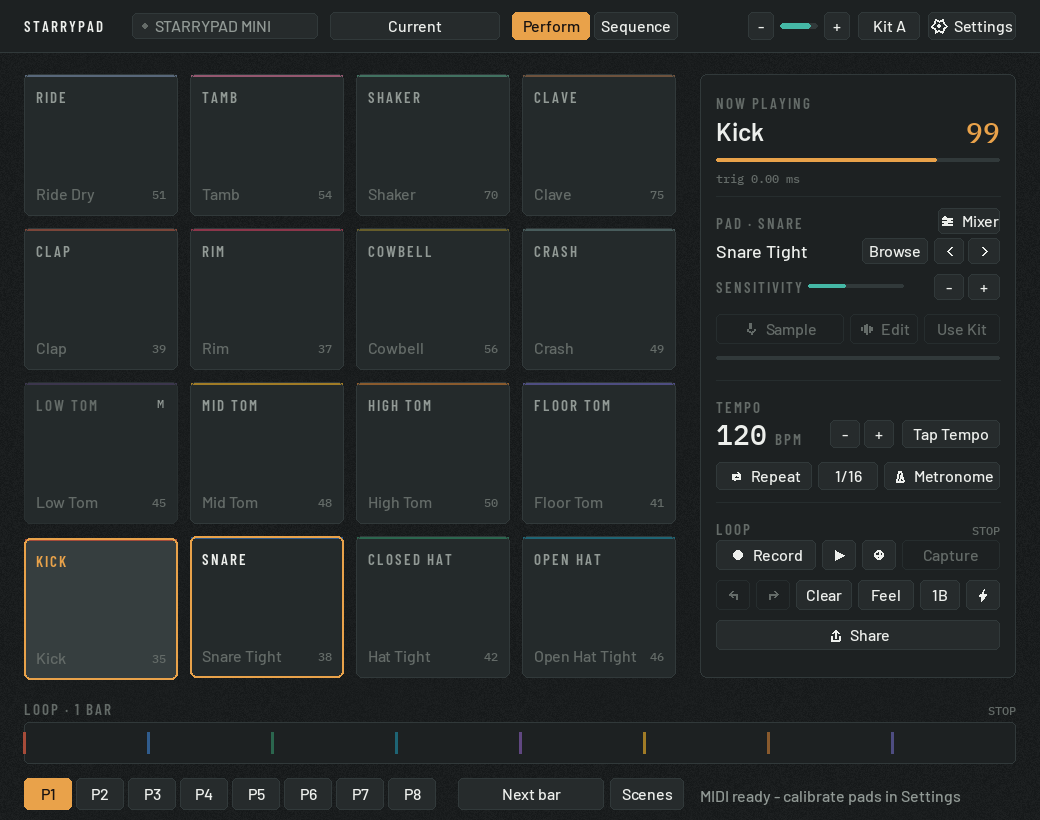
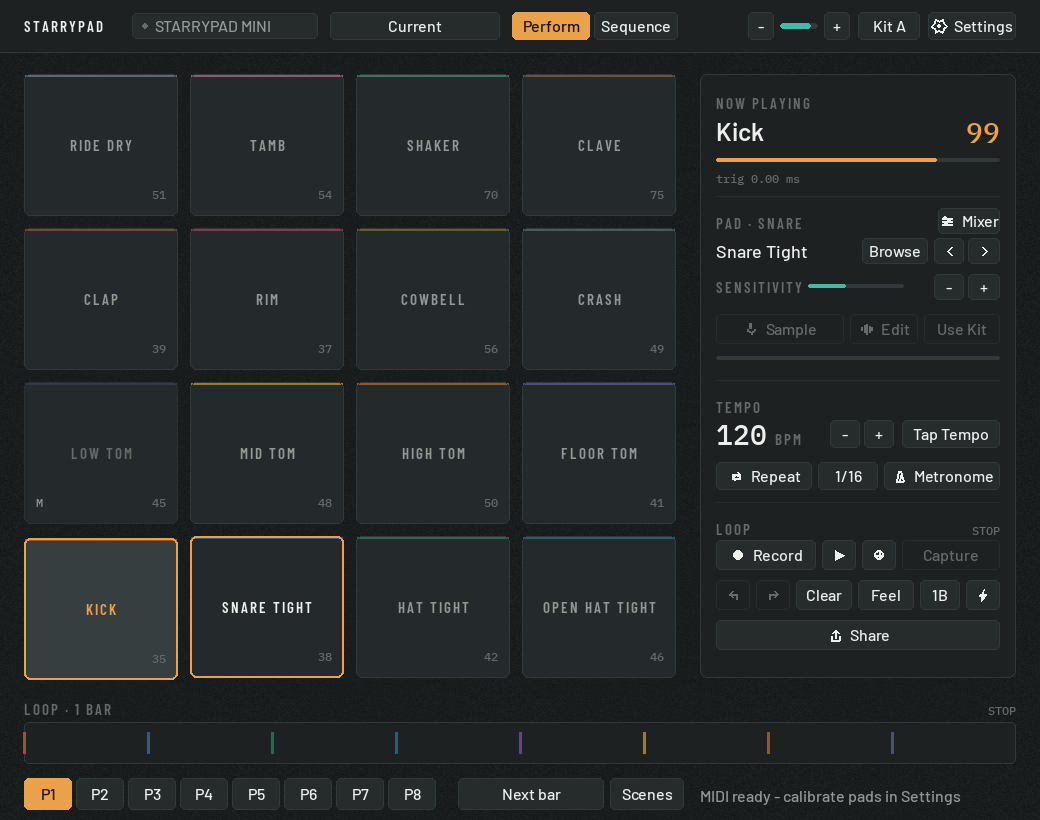
One name per pad, and let the dragged sound follow the cursor
A pad carried two names: its fixed position name in the corner and the sound it
was playing below that. For a default kit those read as near duplicates - RIDE
over Ride Dry, SNARE over Snare Tight - and after a swap they contradict each
other outright, because the position name stays put while the sound moves. The
pad labelled KICK would be playing a snare.

The sound name is the one that answers the question you actually have, so it is
now the only name, centred on the pad face. The number in the corner is the MIDI
note that fires that physical pad and stays where it is.

The 2px stripe now takes its hue from the sound rather than the pad position, so
the kit colours travel on a swap and the layout stays learnable. Variants
inherit their base sound's hue, and a pad holding one of your own samples turns
teal, which retires the separate sample dot.

Dragging had no motion of its own: the source dimmed and the target lit, with
nothing in between. The dragged sound now rides the cursor as a chip, offset the
way a drag cursor is so the pad underneath keeps showing its own name and drop
arrow. Both pads flash amber for 450ms on the drop, decaying as the frame time
advances, so a swap that lands off screen edge still registers.

diff --git a/drum_pad_native.py b/drum_pad_native.py
@@ -58,6 +58,9 @@ PERFORMANCE_BUFFER_SECONDS = 120.0
 PERFORMANCE_PHRASE_GAP_SECONDS = 2.0
 MIDI_SILENCE_HINT_SECONDS = 4.0
 PAD_DRAG_THRESHOLD = 10
+PAD_SWAP_FLASH_SECONDS = 0.45
+PAD_GHOST_SCALE = 0.6
+PAD_GHOST_OFFSET = (16, 14)
 PAD_MOVE_DELTAS = {
     pygame.K_LEFT: -1, pygame.K_RIGHT: 1, pygame.K_UP: 4, pygame.K_DOWN: -4,
 }
@@ -769,6 +772,20 @@ for _note, _pad in sorted(GM_NOTE_TO_PAD.items()):
 
 MAPPING_MODES = ("DONNER Mini", "GM Drums", "Learn")
 KIT_ORDER = tuple(KIT)
+# The kit hue belongs to the sound, so it travels when pads are rearranged.
+SYNTH_COLORS = {pad["synth"]: pad["color"] for pad in PADS}
+
+
+def synth_color(synth, fallback):
+    if synth in SYNTH_COLORS:
+        return SYNTH_COLORS[synth]
+    base = max(
+        (name for name in SYNTH_COLORS if str(synth).startswith(name + "_")),
+        key=len, default=None,
+    )
+    return SYNTH_COLORS[base] if base else fallback
+
+
 SYNTH_LABELS = {pad["synth"]: pad["name"] for pad in PADS}
 SYNTH_LABELS.update({
     "snare": "Snare Tight", "snare_warm": "Snare Warm",
@@ -1295,6 +1312,8 @@ class DrumPadNative:
         self.pad_drag_from = None
         self.pad_drag_over = None
         self.pad_drag_origin = None
+        self.pad_drag_active = False
+        self.pad_swap_flash = {}
         self.solo_pads = set()
         self.mixer_bypass = False
         self.mixer_open = False
@@ -4172,6 +4191,9 @@ class DrumPadNative:
                 pattern["source_events"] = swap_event_pads(pattern["source_events"], first, second)
             pattern["event_meta"] = swap_event_meta_pads(pattern["event_meta"], first, second)
 
+        flash_until = time.perf_counter() + PAD_SWAP_FLASH_SECONDS
+        self.pad_swap_flash = {first: flash_until, second: flash_until}
+
         # Either pad may still be sounding its old voice. The derived sound
         # caches key on content rather than pad index, so nothing else to clear.
         self.audio_events.put(("PANIC",))
@@ -4192,6 +4214,7 @@ class DrumPadNative:
         self.pad_drag_from = index
         self.pad_drag_origin = pos
         self.pad_drag_over = None
+        self.pad_drag_active = False
 
     def update_pad_drag(self, pos):
         if self.pad_drag_from is None or self.pad_drag_origin is None:
@@ -4199,7 +4222,8 @@ class DrumPadNative:
         moved = abs(pos[0] - self.pad_drag_origin[0]) + abs(pos[1] - self.pad_drag_origin[1])
         if moved < PAD_DRAG_THRESHOLD:
             return
-        if self.pad_drag_over is None:
+        if not self.pad_drag_active:
+            self.pad_drag_active = True
             self.status = "Drop on another pad to swap the sounds"
         over = next((index for index, rect in self.pad_rects().items() if rect.collidepoint(pos)), None)
         self.pad_drag_over = over if over != self.pad_drag_from else None
@@ -4207,6 +4231,7 @@ class DrumPadNative:
     def finish_pad_drag(self, pos):
         source, target = self.pad_drag_from, self.pad_drag_over
         self.pad_drag_from = self.pad_drag_over = self.pad_drag_origin = None
+        self.pad_drag_active = False
         if source is None or target is None:
             return False
         if self.swap_pads(source, target):
@@ -6698,62 +6723,98 @@ class DrumPadNative:
     def draw_pads(self):
         """Pads are graphite. Colour on a pad means state, never identity.
 
-        The kit hue survives as a 2px stripe so the layout stays learnable, but
-        the accent is reserved for the pad sounding now and the pad selected.
+        One name per pad, and it is the sound: a pad can be holding anything
+        after the kit is rearranged, so the fixed position name would only
+        contradict it. The 2px stripe carries the kit hue and travels with the
+        sound, which keeps the layout learnable without spending real colour.
         """
         now = time.perf_counter()
         for index, rect in self.pad_rects().items():
-            pad = PADS[index]
             muted = self.pad_mute[index]
             soloed = index in self.solo_pads
             selected = index in self.pad_selection
             sounding = now < self.hit_until[index]
-
-            dragging_from = index == self.pad_drag_from and self.pad_drag_over is not None
+            dragging_from = index == self.pad_drag_from and self.pad_drag_active
             drop_target = index == self.pad_drag_over
+            flash = max(0.0, (self.pad_swap_flash.get(index, 0.0) - now) / PAD_SWAP_FLASH_SECONDS)
 
             face = theme.PAD_HIT if sounding or drop_target else theme.PAD
             border = theme.ACCENT if sounding or selected or drop_target else theme.RULE
-            if dragging_from:
-                face, border = theme.mix(theme.PAD, theme.GROUND, 0.5), theme.INK_3
+            if flash:
+                face = theme.mix(face, theme.ACCENT_SOFT, flash)
+                border = theme.mix(border, theme.ACCENT, flash)
             if muted:
                 face, border = theme.dim(face, 0.4), theme.dim(border, 0.6)
+            if dragging_from:
+                face, border = theme.mix(theme.PAD, theme.GROUND, 0.5), theme.INK_3
             if sounding:
                 rect = rect.move(0, 2)
 
             radius = theme.RADIUS["pad"]
             pygame.draw.rect(self.screen, face, rect, border_radius=radius)
-            stripe = pygame.Rect(rect.x + 1, rect.y + 1, rect.width - 2, 2)
-            hue = theme.hue_hint(pad["color"])
-            pygame.draw.rect(self.screen, theme.dim(hue, 0.6) if muted else hue, stripe)
-            edge = 2 if (sounding or selected or drop_target) else 1
+
+            custom_file = self.custom_sample_files[index]
+            has_sample = bool(custom_file and custom_file in self.custom_sound_cache)
+            hue = theme.SIGNAL if has_sample else synth_color(self.pad_synths[index], PADS[index]["color"])
+            hue = theme.hue_hint(hue)
+            if muted or dragging_from:
+                hue = theme.dim(hue, 0.6)
+            pygame.draw.rect(self.screen, hue, pygame.Rect(rect.x + 1, rect.y + 1, rect.width - 2, 2))
+
+            edge = 2 if (sounding or selected or drop_target or flash) else 1
             pygame.draw.rect(self.screen, border, rect, width=edge, border_radius=radius)
+
             if drop_target:
                 # The two-way arrow says swap, not move.
-                icons.draw(self.screen, "swap", pygame.Rect(rect.centerx - 12, rect.centery - 12, 24, 24), theme.ACCENT)
+                icons.draw(self.screen, "swap", pygame.Rect(rect.centerx - 12, rect.top + 18, 24, 24), theme.ACCENT)
 
             name_color = theme.ACCENT if sounding or drop_target else theme.INK if selected else theme.INK_2
             if muted or dragging_from:
                 name_color = theme.INK_3
-            name = self.label_font.render(pad["name"], True, name_color)
-            self.screen.blit(name, (rect.left + 12, rect.top + 14))
-
-            custom_file = self.custom_sample_files[index]
-            has_sample = bool(custom_file and custom_file in self.custom_sound_cache)
-            sound_text = "Sample" if has_sample else SYNTH_LABELS[self.pad_synths[index]]
-            sound = self.fit_text(self.small_font, sound_text, rect.width - 46, theme.INK_3)
-            self.screen.blit(sound, (rect.left + 12, rect.bottom - 12 - sound.get_height()))
+            label = "Sample" if has_sample else SYNTH_LABELS[self.pad_synths[index]]
+            surface = self.fit_text(self.label_font, label, rect.width - 20, name_color)
+            self.screen.blit(surface, surface.get_rect(center=rect.center))
 
             note = PAD_TO_GM_NOTE.get(index)
             if note is not None:
                 number = self.data_font_sm.render(f"{note}", True, theme.INK_3)
                 self.screen.blit(number, (rect.right - 12 - number.get_width(), rect.bottom - 14 - number.get_height()))
-
-            if has_sample:
-                pygame.draw.circle(self.screen, theme.SIGNAL, (rect.right - 15, rect.top + 18), 3)
             if muted or soloed:
                 marker = self.data_font_sm.render("M" if muted else "S", True, theme.INK_2)
-                self.screen.blit(marker, (rect.right - 14 - marker.get_width(), rect.top + 13))
+                self.screen.blit(marker, (rect.left + 12, rect.bottom - 14 - marker.get_height()))
+
+        self.draw_pad_ghost()
+
+    def draw_pad_ghost(self):
+        """The dragged pad rides the cursor, so the gesture has something to follow."""
+        if not self.pad_drag_active or self.pad_drag_from is None:
+            return
+        source = self.pad_drag_from
+        template = self.pad_rects()[source]
+        size = (round(template.width * PAD_GHOST_SCALE), round(template.height * PAD_GHOST_SCALE))
+        ghost = pygame.Surface(size, pygame.SRCALPHA)
+        body = pygame.Rect(0, 0, *size)
+        radius = theme.RADIUS["pad"]
+        pygame.draw.rect(ghost, (*theme.PAD_HIT, 235), body, border_radius=radius)
+
+        custom_file = self.custom_sample_files[source]
+        has_sample = bool(custom_file and custom_file in self.custom_sound_cache)
+        hue = theme.SIGNAL if has_sample else synth_color(self.pad_synths[source], PADS[source]["color"])
+        pygame.draw.rect(ghost, theme.hue_hint(hue), pygame.Rect(1, 1, size[0] - 2, 2))
+        pygame.draw.rect(ghost, theme.ACCENT, body, width=2, border_radius=radius)
+
+        label = "Sample" if has_sample else SYNTH_LABELS[self.pad_synths[source]]
+        surface = self.fit_text(self.label_font, label, size[0] - 12, theme.ACCENT)
+        ghost.blit(surface, surface.get_rect(center=body.center))
+
+        # Offset from the cursor like a drag cursor, so the pad underneath
+        # keeps showing its own name and drop arrow.
+        x = self.mouse_logical[0] + PAD_GHOST_OFFSET[0]
+        y = self.mouse_logical[1] + PAD_GHOST_OFFSET[1]
+        x = min(x, WINDOW_SIZE[0] - size[0] - 4)
+        y = min(y, WINDOW_SIZE[1] - size[1] - 4)
+        self.screen.blit(ghost, (x, y))
+
     def draw_side_panel(self):
         """One panel, four labelled sections. Rules and labels replace nested cards."""
         panel = pygame.Rect(700, 74, 316, 604)

diff --git a/test_drum_pad_native.py b/test_drum_pad_native.py
@@ -708,6 +708,32 @@ class PadSwapTests(unittest.TestCase):
         self.assertEqual(app.selected_pad, self.snare)
         self.assertIsNone(app.pad_drag_from)
 
+    def test_drag_becomes_active_only_past_the_threshold(self):
+        app = self.app
+        rects = app.pad_rects()
+        app.begin_pad_drag(self.kick, rects[self.kick].center)
+        self.assertFalse(app.pad_drag_active)
+        app.update_pad_drag((rects[self.kick].centerx + 4, rects[self.kick].centery))
+        self.assertFalse(app.pad_drag_active)
+        app.update_pad_drag((rects[self.kick].centerx + 40, rects[self.kick].centery))
+        self.assertTrue(app.pad_drag_active)
+        app.finish_pad_drag(rects[self.kick].center)
+        self.assertFalse(app.pad_drag_active)
+
+    def test_a_swap_flashes_both_pads(self):
+        app = self.app
+        app.swap_pads(self.kick, self.snare)
+        self.assertEqual(set(app.pad_swap_flash), {self.kick, self.snare})
+        self.assertGreater(min(app.pad_swap_flash.values()), time.perf_counter())
+
+    def test_the_kit_hue_follows_the_sound(self):
+        kick_color = drum.synth_color("kick", (0, 0, 0))
+        snare_color = drum.synth_color("snare", (0, 0, 0))
+        self.assertNotEqual(kick_color, snare_color)
+        # Variants inherit the base sound's hue rather than falling back.
+        self.assertEqual(drum.synth_color("snare_warm", (0, 0, 0)), snare_color)
+        self.assertEqual(drum.synth_color("open_hat_dry", (0, 0, 0)), drum.synth_color("open_hat", (0, 0, 0)))
+
     def test_command_arrow_moves_the_sound_and_follows_it(self):
         import pygame
 

diff --git a/README.md b/README.md
@@ -7,9 +7,13 @@ Local desktop drum app using pygame-ce, the platform MIDI API, and the trimmed S
 ![Main screen](ui-main.png)
 
 The panel is graphite and colour means state, not identity: amber marks the pad
-sounding now, the pad selected, and an armed Record. Each pad keeps a 2px stripe
-of its kit hue so the layout stays learnable. Every number is set in a monospace
-face with tabular figures, so readouts do not jitter as they update.
+sounding now, the pad selected, and an armed Record. A pad carries one name, and
+it is the sound it will play — after the kit is rearranged a fixed position name
+would only contradict it. The 2px stripe carries the kit hue and travels with
+the sound, turning teal when the pad holds one of your own samples. The number
+in the corner is the MIDI note that fires that physical pad, so it stays put.
+Every number is set in a monospace face with tabular figures, so readouts do not
+jitter as they update.
 
 ## Requirements
 
@@ -69,7 +73,9 @@ Controls:
 - `Sample`: record from the selected audio input and assign the result to the selected pad.
 - Sampling defaults to `Auto`: it waits for sound, keeps 200 ms of pre-roll, stops after sustained silence, and reports excessive input level. `Manual` remains available in Settings.
 - `Use Kit Sound`: remove the custom assignment and return to the built-in kit sound.
-- Rearranging the kit: drag one pad onto another to swap their sounds, or hold
+- Rearranging the kit: drag one pad onto another to swap their sounds. The
+  dragged sound rides the cursor as a chip, the pad under it lifts and shows a
+  two-way arrow, and both pads flash on the drop. Or hold
   Cmd (Ctrl elsewhere) and press an arrow key to move the selected pad's sound
   to its neighbour. The sound, its sample, edits, tuning, mixer settings and
   mute all travel, and so do recorded hits and sequenced steps, so moving the
